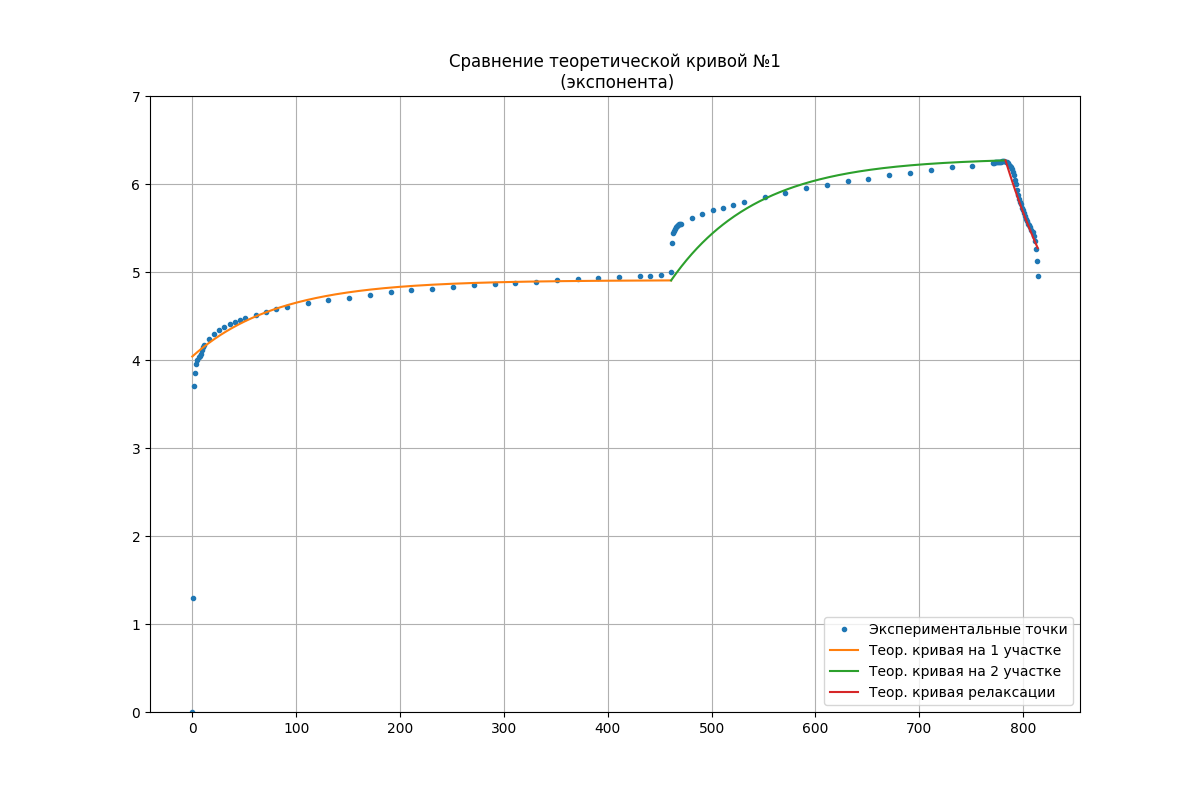
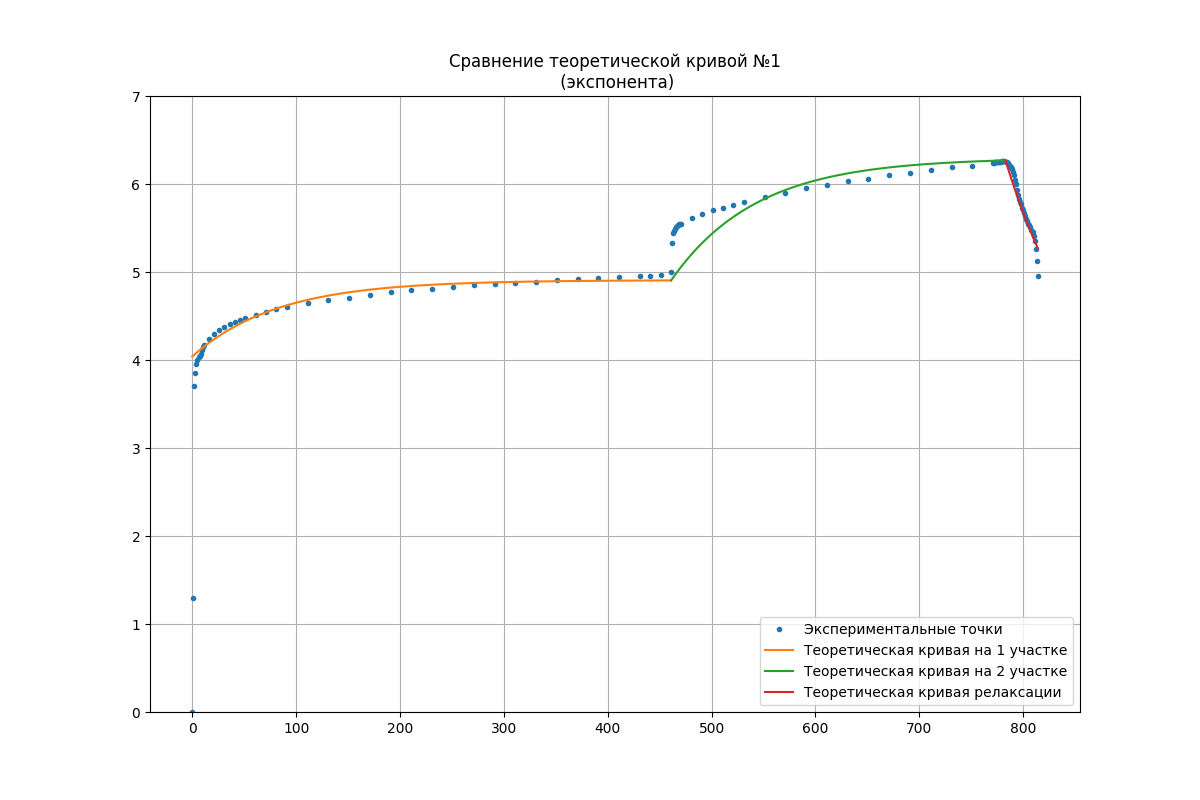
ыф

Changed region(s): [[0.6475, 0.7812, 0.8942, 0.875]]

diff --git a/Ползучесть Графики/main.py b/Ползучесть Графики/main.py
@@ -119,9 +119,9 @@ x3_list = np.linspace(783, 814, 814 - 783 + 1)
 # График экспоненциальных кривых
 fig = plt.figure(figsize=(12, 8))
 plt.plot(t_graph, e_graph, '.', label="Экспериментальные точки")
-plt.plot(x1_list, exponential(x1_list, *Parameters_exp), label="Теор. кривая на 1 участке")
-plt.plot(x2_list, exponential_2(x2_list, *Parameters_exp2), label="Теор. кривая на 2 участке")
-plt.plot(x3_list, relaxation_e(x3_list, *Parameters_rel_exp), label="Теор. кривая релаксации")
+plt.plot(x1_list, exponential(x1_list, *Parameters_exp), label="Теоретическая кривая на 1 участке")
+plt.plot(x2_list, exponential_2(x2_list, *Parameters_exp2), label="Теоретическая кривая на 2 участке")
+plt.plot(x3_list, relaxation_e(x3_list, *Parameters_rel_exp), label="Теоретическая кривая релаксации")
 axes = plt.gca()
 axes.set_ylim([0, 7])
 plt.title("Сравнение теоретической кривой №1\n (экспонента)")
